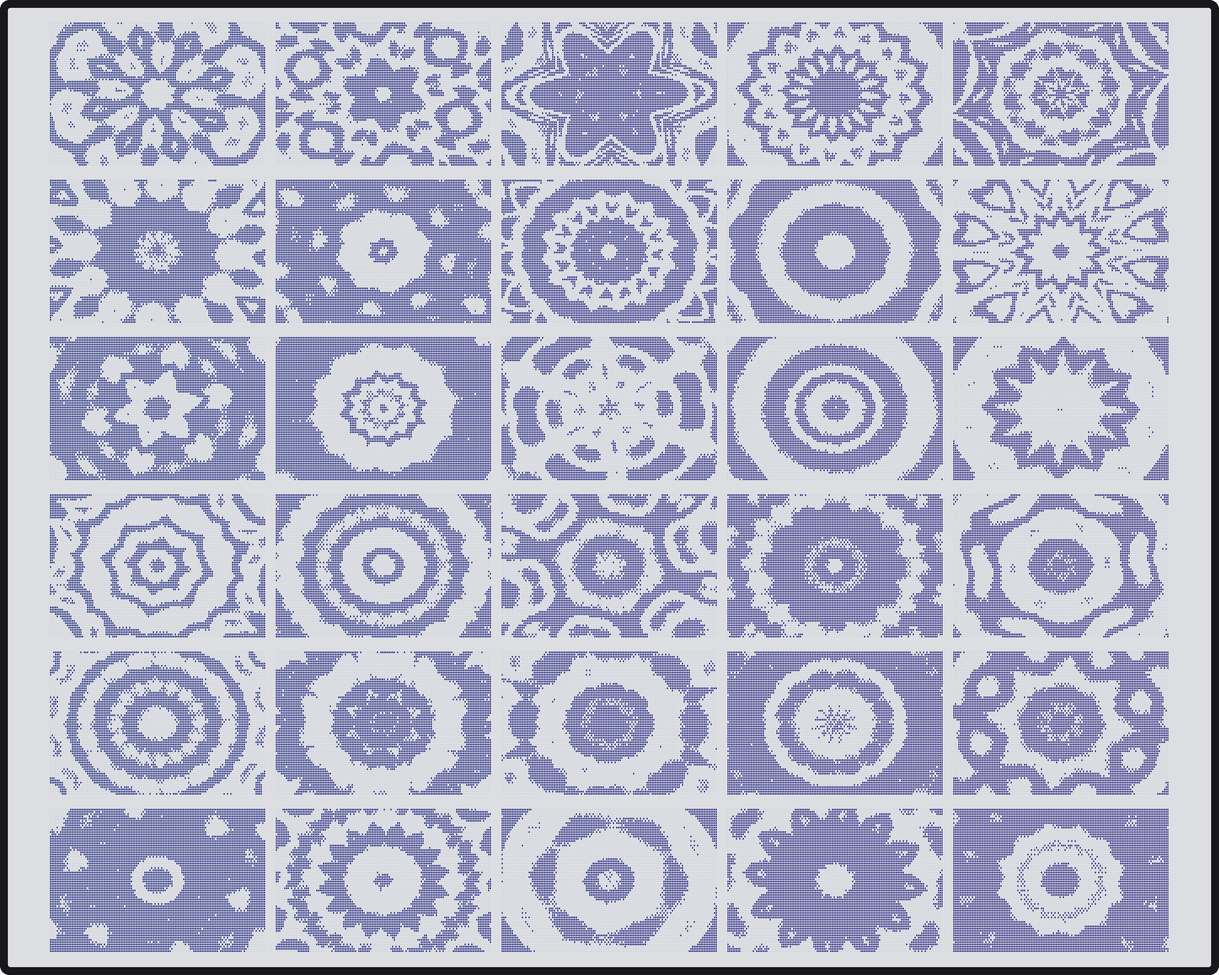
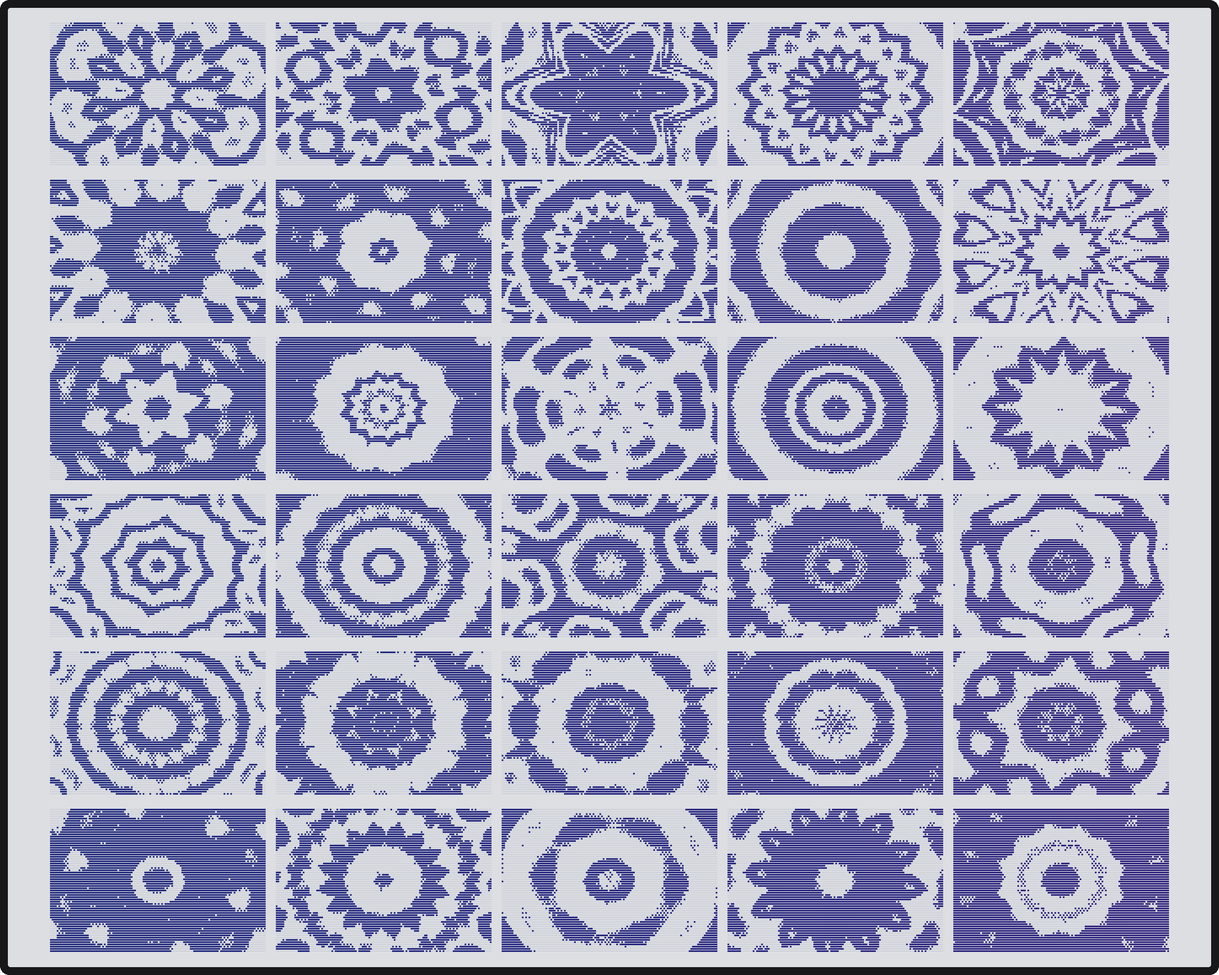
README: looper and SYSTEM shots, PayPal first (preferred), darker kaleido grid

diff --git a/scripts/screens/make_screens.py b/scripts/screens/make_screens.py
@@ -104,7 +104,8 @@ def lcd(p, cw=CW, ch=CH, mx=M, my=M):
                 continue
             X, Y = B + mx + x * cw, B + my + y * ch
             d.rectangle((X, Y, X + cw - 1, Y + ch - 1), fill=GAP)
-            d.rectangle((X, Y, X + cw - 2, Y + ch - 2), fill=ink(x / (w - 1)) if p[y][x] else OFF)
+            gx = 1 if cw > 3 else 0                 # small cells (kaleido grid): no column gap, so the ink reads as dark as the big shots
+            d.rectangle((X, Y, X + cw - 1 - gx, Y + ch - 2), fill=ink(x / (w - 1)) if p[y][x] else OFF)
     return im
 
 
@@ -152,6 +153,11 @@ def main(out):
                 continue
             lcd(pixels((dirs[k] / f"{name}.fb").read_bytes(), fmt)).save(out / png)
             print(out / png)
+        still = ROOT.parent / "zoom-ms-zdl-effects-pack/src/custom/looper/live_still.png"  # GRDLOOP with the loop bar lbox.c draws
+        if still.exists():
+            im = Image.open(still).convert("L")
+            lcd([[im.getpixel((x, y)) < 128 for x in range(W)] for y in range(H)]).save(out / "looper.png")
+            print(out / "looper.png")
         order = [2, 17, 9, 25, 5, 21, 0, 28, 13, 7, 16, 3, 19, 11, 24, 6, 27, 1, 22, 15, 29, 8, 14, 20, 4, 18, 26, 10, 23, 12]
         kaleido_grid([(dirs["master"] / f"master_grid{i:02d}.fb").read_bytes() for i in order]).save(out / "kaleido-grid.png")
         print(out / "kaleido-grid.png")

diff --git a/README.md b/README.md
@@ -14,7 +14,7 @@ effect chain routing, a looper, Perform mode, mastering meters, and full MIDI co
 <a href="#feedback-and-support">Feedback</a></p>
 
 <p align="center">MIDISTOMP is free and made by one person with one pedal. If it makes your pedal more fun, a coffee keeps it going:</p>
-<h3 align="center">☕ <a href="https://buymeacoffee.com/matujuice">Buy Me a Coffee</a> · 💙 <a href="https://paypal.me/matujuice">PayPal</a></h3>
+<h3 align="center">💙 <a href="https://paypal.me/matujuice">PayPal</a> (preferred) · ☕ <a href="https://buymeacoffee.com/matujuice">Buy Me a Coffee</a></h3>
 
 <p align="center"><img src="docs/img/cover.jpg" alt="A Zoom MS-70CDR running MIDISTOMP, KALEIDO on the screen, wrapped in orange cables" width="720"></p>
 
@@ -32,7 +32,8 @@ updater.
 
 ## What 2.0 adds
 
-<p align="center"><img src="docs/img/mixer-chain.png" alt="Effect Chain screen with ROUTE, two parallel buses and MIX" width="200"> <img src="docs/img/perform.png" alt="PERFORM MODE" width="200"> <img src="docs/img/master.png" alt="MASTER SPECTRUM page" width="200"> <img src="docs/img/kaleido.png" alt="MASTER KALEIDO visual" width="200"></p>
+<p align="center"><img src="docs/img/mixer-chain.png" alt="Effect Chain screen with ROUTE, two parallel buses and MIX" width="200"> <img src="docs/img/perform.png" alt="PERFORM MODE" width="200"> <img src="docs/img/looper.png" alt="GRDLOOP recording, with the loop bar MIDISTOMP draws" width="200"></p>
+<p align="center"><img src="docs/img/master.png" alt="MASTER SPECTRUM page" width="200"> <img src="docs/img/kaleido.png" alt="MASTER KALEIDO visual" width="200"> <img src="docs/img/system-load.png" alt="SYSTEM LOAD page" width="200"></p>
 
 | Feature | What it does |
 |---|---|
@@ -158,7 +159,7 @@ MS-50G and MS-60B owners are especially welcome.
 
 MIDISTOMP is free. If it's useful to you, you can buy me a coffee:
 
-### ☕ [Buy Me a Coffee](https://buymeacoffee.com/matujuice) · 💙 [PayPal](https://paypal.me/matujuice)
+### 💙 [PayPal](https://paypal.me/matujuice) (preferred) · ☕ [Buy Me a Coffee](https://buymeacoffee.com/matujuice)
 
 ---
 

diff --git a/docs/user-guide.md b/docs/user-guide.md
@@ -729,6 +729,6 @@ confusing, or an idea. Say which pedal and MIDISTOMP version you have (MENU > SY
 happened. A phone photo of the screen helps. Reports from MS-50G and MS-60B owners are especially welcome.
 
 MIDISTOMP is free and made by one person. If it's useful to you, you can buy me a coffee:
-[PayPal](https://paypal.me/matujuice) · [Buy Me a Coffee](https://buymeacoffee.com/matujuice)
+[PayPal](https://paypal.me/matujuice) (preferred) · [Buy Me a Coffee](https://buymeacoffee.com/matujuice)
 
 <p align="right"><sub><a href="#contents">↑ Contents</a></sub></p>
